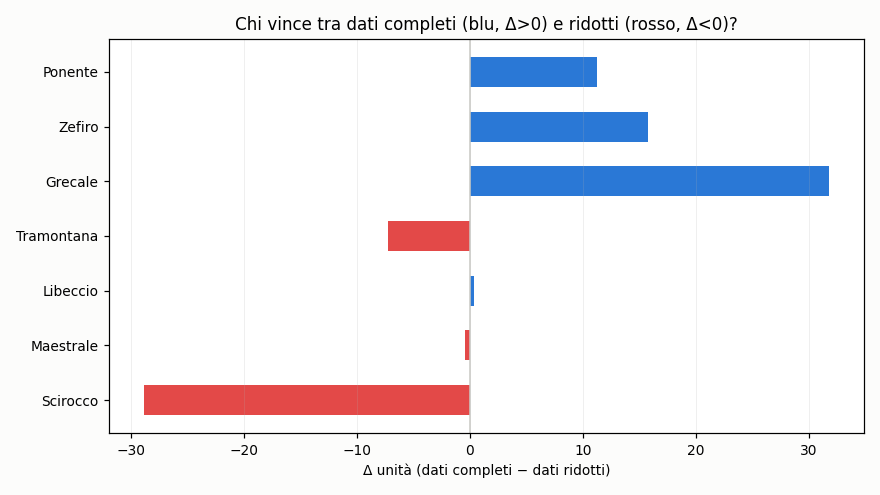
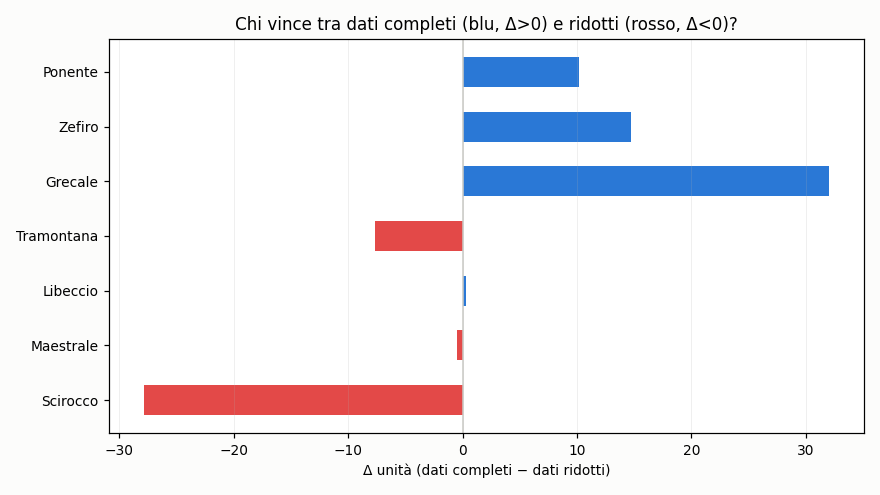
aggiornamento 2026-07-25 14:21 UTC

diff --git a/README.md b/README.md
@@ -37,9 +37,9 @@ scala in unità). Non indichiamo quale.
 
 ## Grafici
 
-![Coppie: dati completi vs ridotti](https://raw.githubusercontent.com/Kitem19/ippica-track-record/main/charts/equity_pairs.png?v=6d35aa9a)
+![Coppie: dati completi vs ridotti](https://raw.githubusercontent.com/Kitem19/ippica-track-record/main/charts/equity_pairs.png?v=ed8ef5c9)
 
-![Delta per coppia](https://raw.githubusercontent.com/Kitem19/ippica-track-record/main/charts/coppie_delta.png?v=16b7231c)
+![Delta per coppia](https://raw.githubusercontent.com/Kitem19/ippica-track-record/main/charts/coppie_delta.png?v=dca433a0)
 
 ### Come leggere i grafici
 
@@ -56,34 +56,34 @@ scala in unità). Non indichiamo quale.
 
 _Poche giornate: numeri ancora rumorosi, si conclude a fine fase (31/7)._
 
-- **Scirocco**: dati ridotti avanti di 28,9u — qui gli extra non aiutano
+- **Scirocco**: dati ridotti avanti di 27,9u — qui gli extra non aiutano
 - **Maestrale**: in sostanziale pareggio — troppo presto per dire
 - **Libeccio**: in sostanziale pareggio — troppo presto per dire
-- **Tramontana**: dati ridotti avanti di 7,3u — qui gli extra non aiutano
-- **Grecale**: dati completi avanti di 31,8u
-- **Zefiro**: dati completi avanti di 15,8u
-- **Ponente**: dati completi avanti di 11,2u
+- **Tramontana**: dati ridotti avanti di 7,6u — qui gli extra non aiutano
+- **Grecale**: dati completi avanti di 32,0u
+- **Zefiro**: dati completi avanti di 14,8u
+- **Ponente**: dati completi avanti di 10,2u
 
 ## Classifica (conteggio ufficiale)
 
 | Sistema | Cassa (u) | P/L (u) | Selezioni | Escluse | Stato |
 |---|---|---|---|---|---|
-| Grecale | 31,5 | +11,5 | 282 | 4 | 🟢 |
-| Scirocco-B | 28,8 | +8,8 | 210 | 0 | 🟢 |
-| Zefiro | 15,3 | -4,7 | 247 | 5 | 🟢 |
-| Ponente | 10,3 | -9,7 | 194 | 28 | 🟢 |
-| Tramontana-B | 7,0 | -13,0 | 314 | 0 | 🟢 |
-| Maestrale-B | 0,0 | -20,0 | 100 | 213 | 🛑 |
-| Scirocco | 0,0 | -20,1 | 80 | 222 | 🛑 |
-| Grecale-B | 0,0 | -20,2 | 137 | 153 | 🛑 |
-| Tramontana | 0,0 | -20,3 | 45 | 286 | 🛑 |
-| Zefiro-B | 0,0 | -20,5 | 143 | 56 | 🛑 |
-| Maestrale | 0,0 | -20,5 | 104 | 233 | 🛑 |
-| Libeccio | 0,0 | -20,6 | 181 | 143 | 🛑 |
-| Libeccio-B | 0,0 | -20,9 | 119 | 157 | 🛑 |
+| Grecale | 31,8 | +11,8 | 283 | 4 | 🟢 |
+| Scirocco-B | 27,8 | +7,8 | 211 | 0 | 🟢 |
+| Zefiro | 14,3 | -5,7 | 248 | 5 | 🟢 |
+| Ponente | 9,3 | -10,7 | 195 | 28 | 🟢 |
+| Tramontana-B | 7,3 | -12,7 | 315 | 0 | 🟢 |
+| Maestrale-B | 0,0 | -20,0 | 100 | 214 | 🛑 |
+| Scirocco | 0,0 | -20,1 | 80 | 223 | 🛑 |
+| Grecale-B | 0,0 | -20,2 | 137 | 154 | 🛑 |
+| Tramontana | 0,0 | -20,3 | 45 | 287 | 🛑 |
+| Zefiro-B | 0,0 | -20,5 | 143 | 57 | 🛑 |
+| Maestrale | 0,0 | -20,5 | 104 | 234 | 🛑 |
+| Libeccio | 0,0 | -20,6 | 181 | 144 | 🛑 |
+| Libeccio-B | 0,0 | -20,9 | 119 | 158 | 🛑 |
 | Ponente-B | 0,0 | -21,0 | 63 | 77 | 🛑 |
 
-_Aggiornato: 25/07 16:16_
+_Aggiornato: 25/07 16:21_
 ---
 *Nessuna delle informazioni qui pubblicate costituisce consiglio di gioco.
 Il gioco può causare dipendenza — 18+.*
